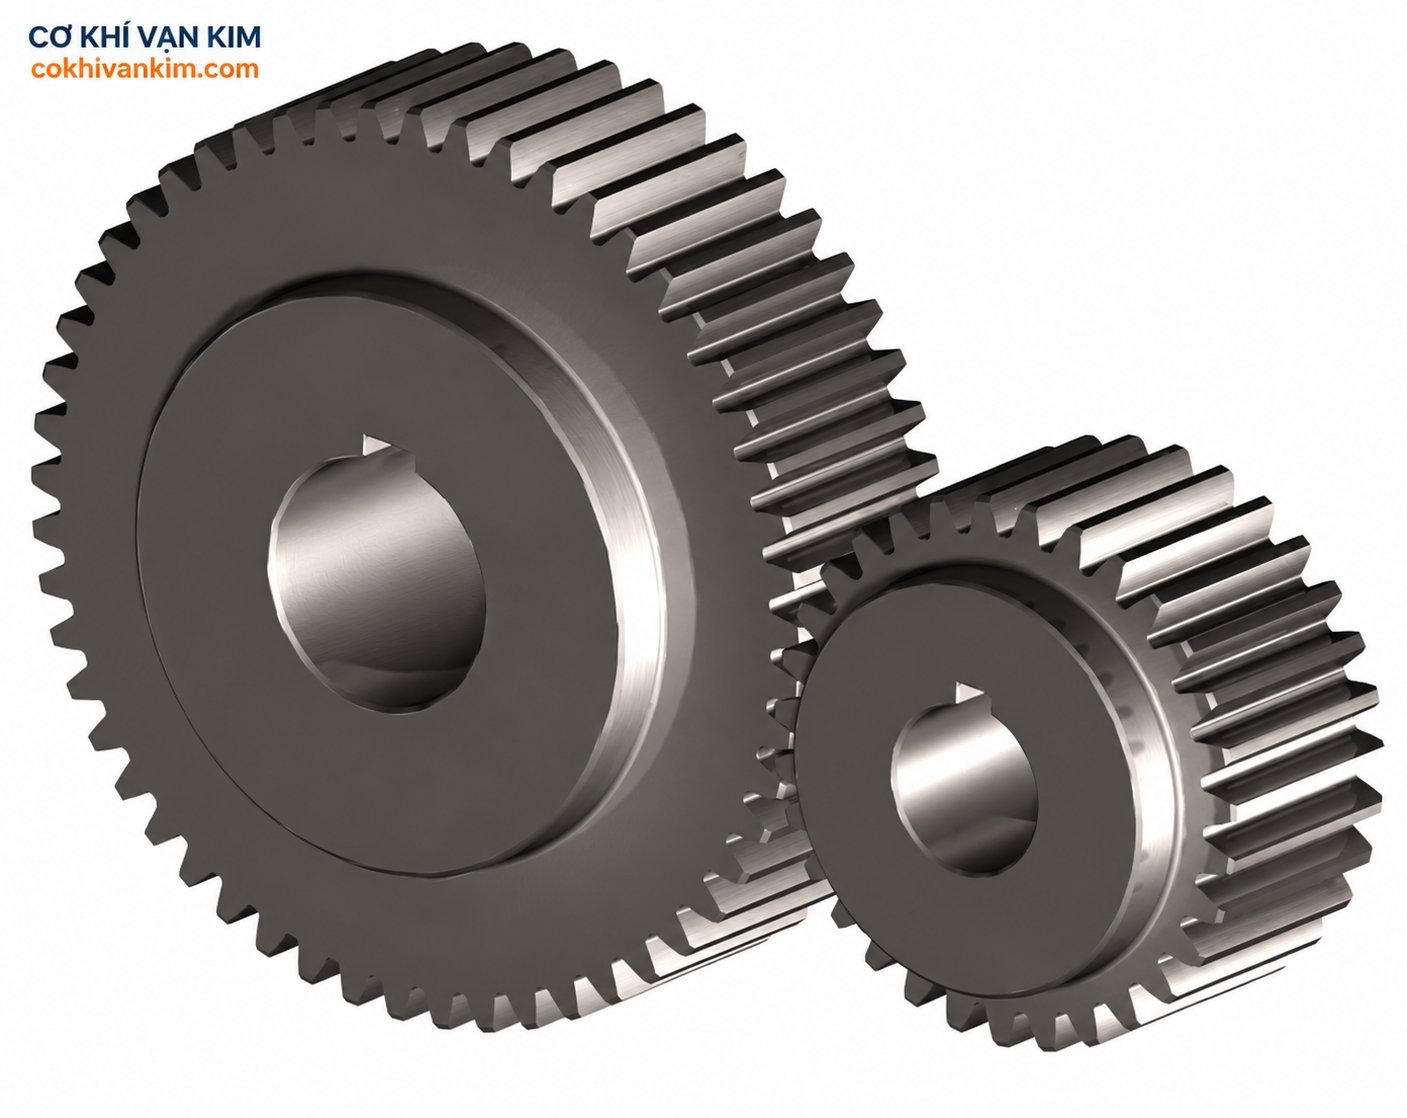
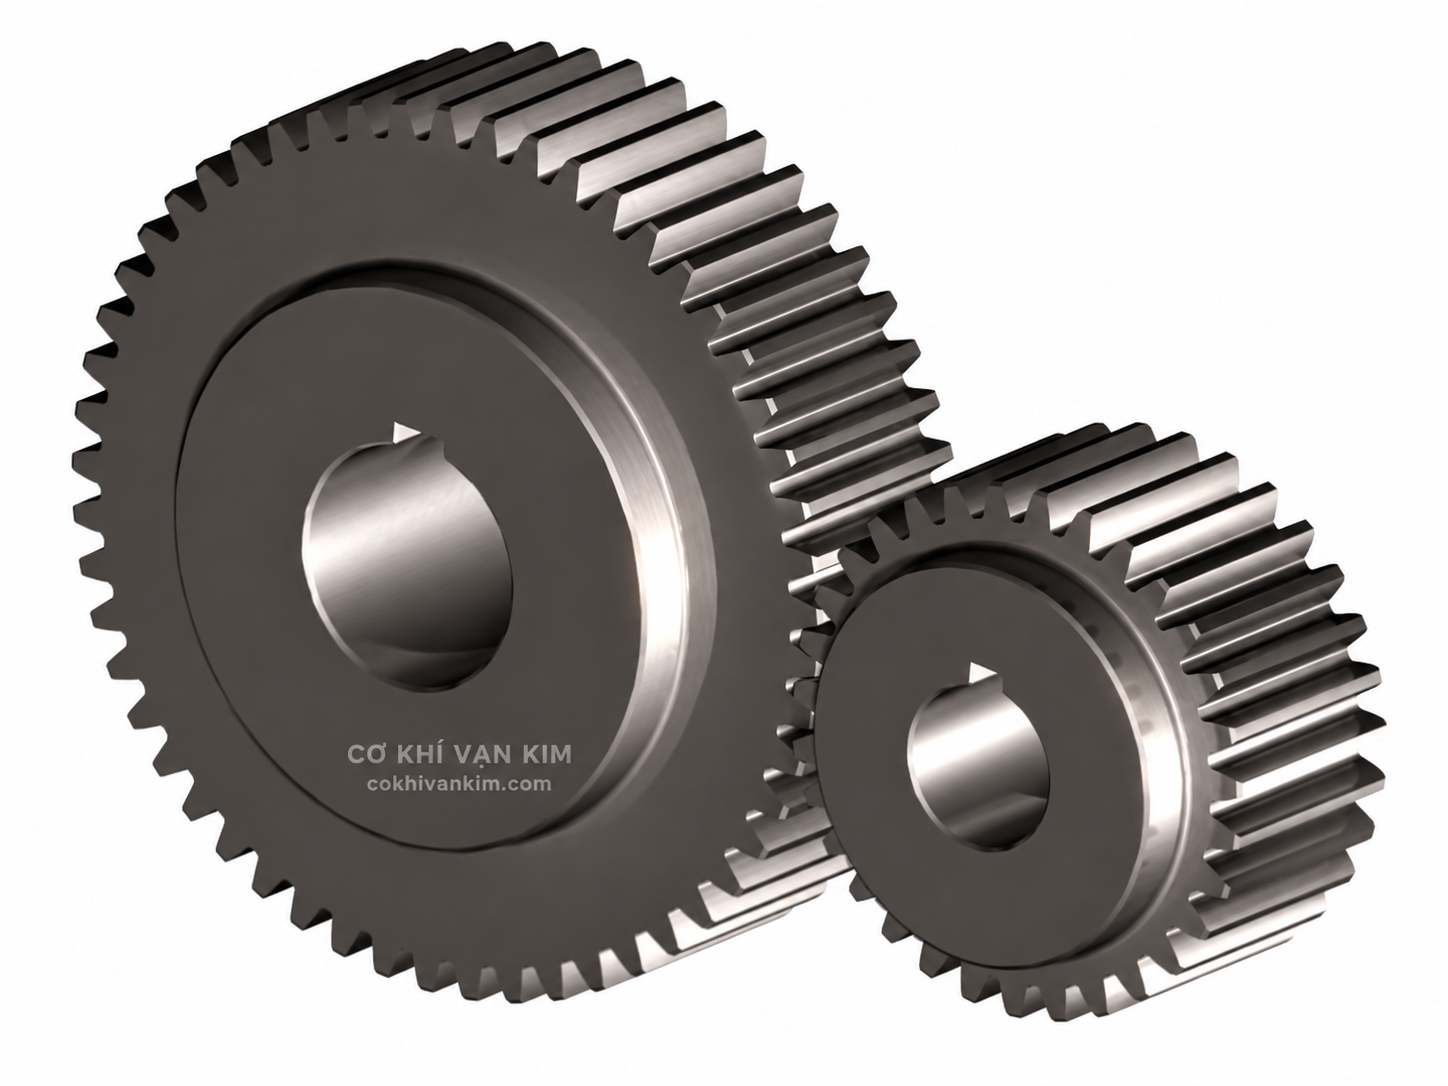
Replace turned parts watermarks

diff --git a/WATERMARK_PLAN.md b/WATERMARK_PLAN.md
@@ -14,11 +14,17 @@ Cập nhật: 2026-10-27.
 - 168 trang/bài có ảnh nội dung.
 - 977 ảnh nội dung riêng biệt cần rà watermark.
 - 214 ảnh được dùng ở từ hai trang trở lên, chỉ cần thay một lần.
-- 397 ảnh đã có bản thay thế được duyệt.
+- 403 ảnh đã có bản thay thế được duyệt.
 - 489 ảnh đã kiểm tra, không có watermark cũ.
 
 ## Trạng thái ảnh đã duyệt
 
+- [x] `/media/96391213a6ba10feef47.jpg` → `/brand-media/turned-components-layout-vankim.png` — dùng ở 1 trang.
+- [x] `/media/8db31d0c98b45219892d.jpg` → `/brand-media/turned-shafts-and-rings-vankim.png` — dùng ở 1 trang.
+- [x] `/media/fb3f4e43792681b3f490.jpg` → `/brand-media/precision-bushings-vankim.png` — dùng ở 1 trang.
+- [x] `/media/bc3e6146136d09d8fabb.jpg` → `/brand-media/machined-gears-vankim.png` — dùng ở 1 trang.
+- [x] `/media/db272b201f9a8f363be9.jpg` → `/brand-media/machined-bushings-shafts-vankim.png` — dùng ở 1 trang.
+- [x] `/media/1afc48e520229bfcae12.jpg` → `/brand-media/welded-machining-base-vankim.png` — dùng ở 1 trang.
 - [x] `/media/e24789c8626e7892d14e.jpg` → `/brand-media/laser-cut-brackets-vankim.png` — dùng ở 1 trang.
 - [x] `/media/f1c600572fd0ddf6d719.jpg` → `/brand-media/machined-parts-layout-vankim.png` — dùng ở 1 trang.
 - [x] `/media/b5fa9143fca664f43d85.jpg` → `/brand-media/precision-machined-components-vankim.png` — dùng ở 1 trang.
@@ -3578,7 +3584,7 @@ Cập nhật: 2026-10-27.
   - [x] `/media/eebd29e38ec415685836.jpg` — dùng ở 1 trang — nguồn: https://cokhitonghop.vn/thumb/800x600/2/upload/news/77390565/cat-laser-kim-loai-quan-binh-tan-gia-cong-cat-sat-inox-thep-tam.jpg
   - [x] `/media/0c9a317c947ffae226f0.jpg` — dùng ở 2 trang — nguồn: https://cokhitonghop.vn/upload/news/77390565.jpg
 
-### [ ] Tin tức & kiến thức cơ khí. Hiểu rõ trước khi gia công.
+### [x] Tin tức & kiến thức cơ khí. Hiểu rõ trước khi gia công.
 
 - Route: `/tin-tuc/page/8/`
 - Ảnh cần rà: 26
@@ -3602,11 +3608,11 @@ Cập nhật: 2026-10-27.
   - [x] `/media/806e8e5b994c9addb2b6.jpg` — dùng ở 2 trang — nguồn: https://cokhitonghop.vn/upload/news/89125172.jpg
   - [x] `/media/b06dcba33e7f1006db37.jpg` — dùng ở 1 trang — nguồn: https://cokhitonghop.vn/thumb/800x600/2/upload/news/47049848/gia-cong-co-khi-tai-quan-10-tphcm-co-khi-chinh-xac-gia-re.jpg
   - [x] `/media/6c6a9f7f6cb050916939.jpg` — dùng ở 2 trang — nguồn: https://cokhitonghop.vn/upload/news/47049848.jpg
-  - [ ] `/media/96391213a6ba10feef47.jpg` — dùng ở 1 trang — nguồn: https://cokhitonghop.vn/thumb/800x600/2/upload/news/24734264/gia-cong-co-khi-tai-quan-tan-phu-tphcm-gia-cong-co-khi-chinh-xac-gia-re.jpg
+  - [x] `/media/96391213a6ba10feef47.jpg` — dùng ở 1 trang — nguồn: https://cokhitonghop.vn/thumb/800x600/2/upload/news/24734264/gia-cong-co-khi-tai-quan-tan-phu-tphcm-gia-cong-co-khi-chinh-xac-gia-re.jpg
   - [x] `/media/65433e293041e47a31ea.jpg` — dùng ở 2 trang — nguồn: https://cokhitonghop.vn/upload/news/24734264.jpg
-  - [ ] `/media/8db31d0c98b45219892d.jpg` — dùng ở 1 trang — nguồn: https://cokhitonghop.vn/thumb/800x600/2/upload/news/76591117/gia-cong-co-khi-chinh-xac-quan-binh-thanh-tphcm-uy-tin-chat-luong.jpg
+  - [x] `/media/8db31d0c98b45219892d.jpg` — dùng ở 1 trang — nguồn: https://cokhitonghop.vn/thumb/800x600/2/upload/news/76591117/gia-cong-co-khi-chinh-xac-quan-binh-thanh-tphcm-uy-tin-chat-luong.jpg
   - [x] `/media/8aa33d11294e80797de1.jpg` — dùng ở 2 trang — nguồn: https://cokhitonghop.vn/upload/news/76591117.jpg
-  - [ ] `/media/fb3f4e43792681b3f490.jpg` — dùng ở 1 trang — nguồn: https://cokhitonghop.vn/thumb/800x600/2/upload/news/68808210/gia-cong-co-khi-chinh-xac-tai-binh-chanh-tphcm-gia-tot-uy-tin.jpg
+  - [x] `/media/fb3f4e43792681b3f490.jpg` — dùng ở 1 trang — nguồn: https://cokhitonghop.vn/thumb/800x600/2/upload/news/68808210/gia-cong-co-khi-chinh-xac-tai-binh-chanh-tphcm-gia-tot-uy-tin.jpg
   - [x] `/media/ca7e5fc0a3c490b2a0a5.jpg` — dùng ở 2 trang — nguồn: https://cokhitonghop.vn/upload/news/68808210.jpg
 
 ### [ ] Tin tức & kiến thức cơ khí. Hiểu rõ trước khi gia công.
@@ -3615,11 +3621,11 @@ Cập nhật: 2026-10-27.
 - Ảnh cần rà: 14
   - [x] `/media/edfcb9597003e3fdd4b7.png` — dùng ở 30 trang — nguồn: https://cokhitonghop.vn/upload/hinhanh/774.png
   - [x] `/media/f6b5bf15d8acf9f7a1ba.png` — dùng ở 168 trang — nguồn: https://cokhitonghop.vn/upload/hinhanh/23041154.png
-  - [ ] `/media/bc3e6146136d09d8fabb.jpg` — dùng ở 1 trang — nguồn: https://cokhitonghop.vn/thumb/800x600/2/upload/news/87230282/gia-cong-co-khi-tai-quan-7-tphcm-gia-cong-chinh-xac-theo-yeu-cau.jpg
+  - [x] `/media/bc3e6146136d09d8fabb.jpg` — dùng ở 1 trang — nguồn: https://cokhitonghop.vn/thumb/800x600/2/upload/news/87230282/gia-cong-co-khi-tai-quan-7-tphcm-gia-cong-chinh-xac-theo-yeu-cau.jpg
   - [x] `/media/08eba1720a856ea6639c.jpg` — dùng ở 2 trang — nguồn: https://cokhitonghop.vn/upload/news/87230282.jpg
-  - [ ] `/media/db272b201f9a8f363be9.jpg` — dùng ở 1 trang — nguồn: https://cokhitonghop.vn/thumb/800x600/2/upload/news/49484893/cong-ty-gia-cong-co-khi-quan-9-tphcm-gia-cong-co-khi-chinh-xac.jpg
+  - [x] `/media/db272b201f9a8f363be9.jpg` — dùng ở 1 trang — nguồn: https://cokhitonghop.vn/thumb/800x600/2/upload/news/49484893/cong-ty-gia-cong-co-khi-quan-9-tphcm-gia-cong-co-khi-chinh-xac.jpg
   - [x] `/media/54d9490f2333b740a397.jpg` — dùng ở 2 trang — nguồn: https://cokhitonghop.vn/upload/news/49484893.jpg
-  - [ ] `/media/1afc48e520229bfcae12.jpg` — dùng ở 1 trang — nguồn: https://cokhitonghop.vn/thumb/800x600/2/upload/news/33116534/gia-cong-co-khi-tai-thu-duc-co-khi-chinh-xac-tphcm.jpg
+  - [x] `/media/1afc48e520229bfcae12.jpg` — dùng ở 1 trang — nguồn: https://cokhitonghop.vn/thumb/800x600/2/upload/news/33116534/gia-cong-co-khi-tai-thu-duc-co-khi-chinh-xac-tphcm.jpg
   - [x] `/media/079eb95b4139809abdf8.jpg` — dùng ở 2 trang — nguồn: https://cokhitonghop.vn/upload/news/33116534.jpg
   - [ ] `/media/73478e284f7ad69962ab.jpg` — dùng ở 1 trang — nguồn: https://cokhitonghop.vn/thumb/800x600/2/upload/news/18825378/xuong-gia-cong-co-khi-quan-12-tphcm-gia-cong-co-khi-chinh-xac.jpg
   - [x] `/media/09954731739ff4badde3.jpg` — dùng ở 2 trang — nguồn: https://cokhitonghop.vn/upload/news/18825378.jpg
